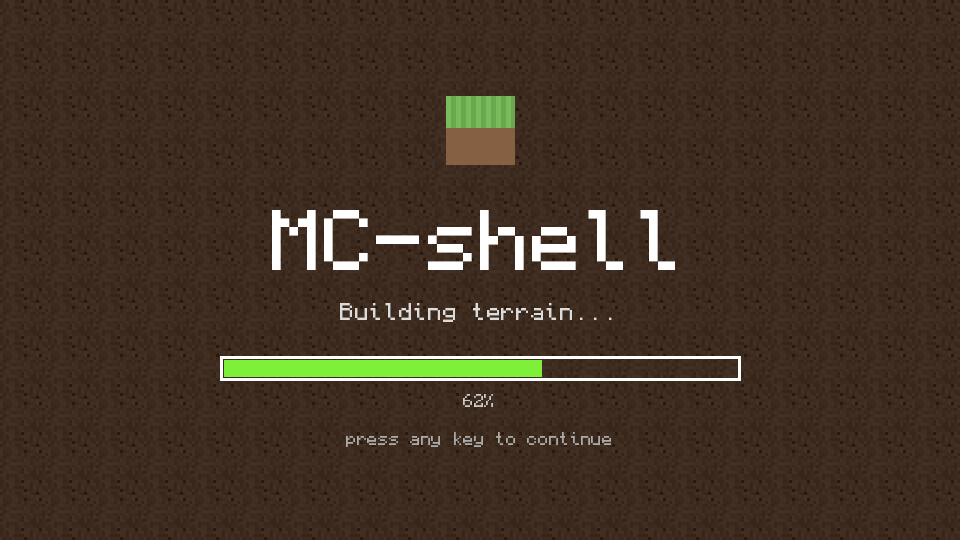
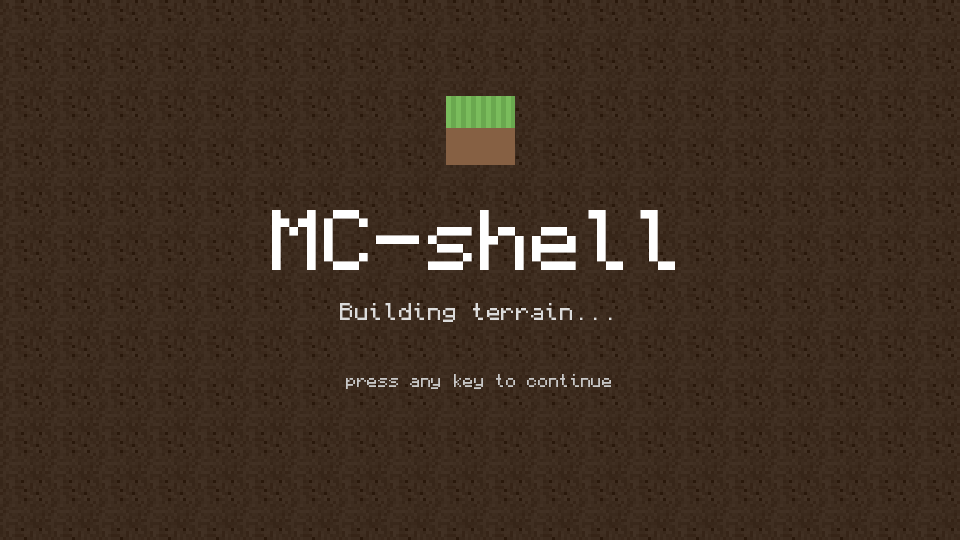
wallpaper: drop the loading progress bar from the bundled preset

Changed region(s): [[0.2188, 0.6519, 0.7812, 0.7704], [0.3438, 0.8, 0.6562, 0.8296]]

diff --git a/scripts/gen_wallpapers.py b/scripts/gen_wallpapers.py
@@ -44,11 +44,7 @@ def main():
     center(d, "MC-shell", font_big, 200, (255, 255, 255))
     center(d, "Building terrain...", font_mid, 300, (220, 220, 220))
 
-    bx0, bx1 = W // 2 - 260, W // 2 + 260
-    d.rectangle([bx0, 356, bx1, 380], outline=(255, 255, 255), width=3)
-    d.rectangle([bx0 + 4, 360, bx0 + 4 + int((bx1 - bx0 - 8) * 0.62), 376], fill=(126, 240, 58))
-    center(d, "62%", font_small, 392, (200, 200, 200))
-    center(d, "press any key to continue", font_small, 430, (170, 170, 170))
+    center(d, "press any key to continue", font_small, 372, (200, 200, 200))
 
     bg.save(OUT / "loading.png")
     print("wrote assets/wallpapers/loading.png", bg.size)
